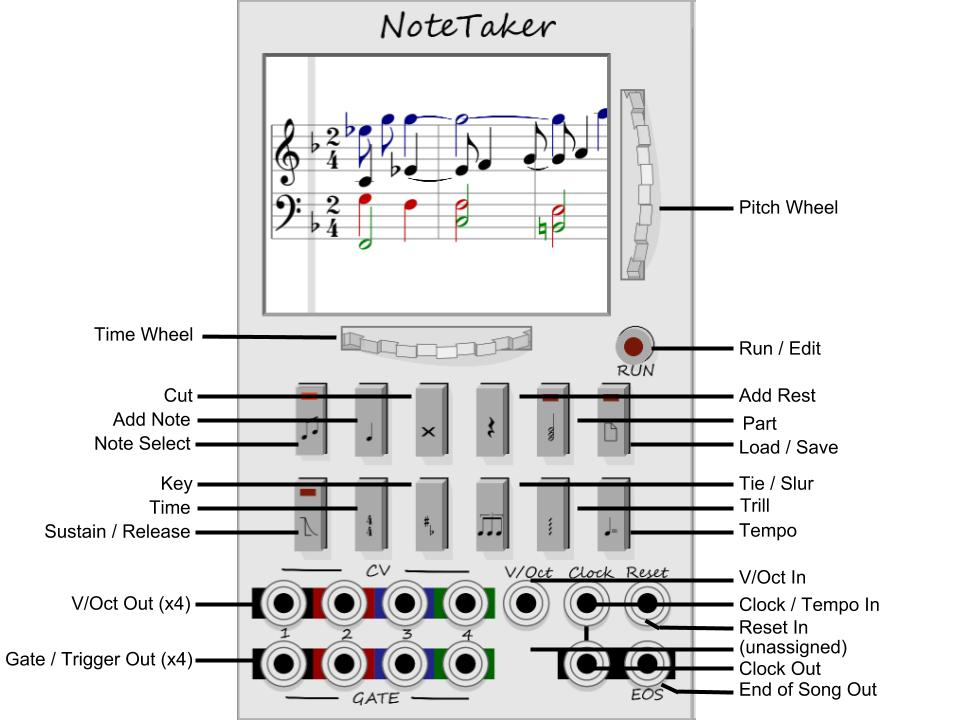
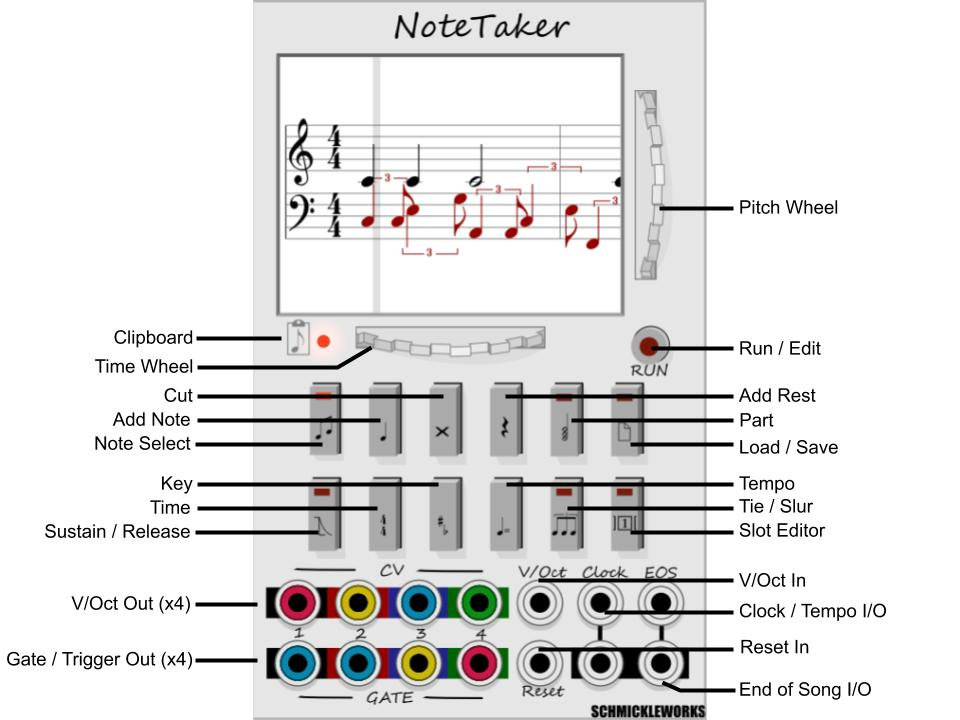
working on documentation

Changed region(s): [[0.0938, 0.0, 0.9375, 1.0], [0.0, 0.8861, 0.0625, 0.9472], [0.875, 0.9472, 0.9062, 0.9778]]

diff --git a/src/Display.cpp b/src/Display.cpp
@@ -1135,7 +1135,7 @@ void NoteTakerDisplay::drawFileControl() {
     this->drawVerticalLabel("save", true, downSelected, box.size.y - 50);
     this->drawVerticalControl();
     // draw horizontal control
-    float fSlot = horizontalWheel->getValue();
+    float fSlot = std::min((float) (ntw->storage.size() - 1), horizontalWheel->getValue());
     int slot = (int) (fSlot + .5);
     control.autoDrift(fSlot, state.callInterval);
     unsigned firstVisible = xControlOffset >= 1 ? (unsigned) xControlOffset - 1 : 0;

diff --git a/README.md b/README.md
@@ -1,6 +1,6 @@
 # SchmickleWorks NoteTaker
 
-NoteTaker is a [VCV Rack 0.6](https://vcvrack.com/) module to create sequences
+NoteTaker is a [VCV Rack 1.0](https://vcvrack.com/) module to create sequences
 using traditional music notation.
 
 NoteTaker is under active development; the file format, panel layout, and feature
@@ -14,31 +14,134 @@ Planned feature set:
 
 * Sequences are loaded as MIDI formats one and zero, and saved as MIDI format zero.
 * State is autosaved between sessions.
-* Sequences use from one to four channels.
+* Sequences use from one to four channels (eight with expansion)
 * Editor supports copy and paste.
 * Gate output can be customized to match desired envelope triggering.
 * Pitch and tempo can be modified at runtime.
 * Score may contain key signature, time signature, and tempo.
 * Note pitch varies from MIDI note 0 to MIDI note 127, over ten octaves.
 * Note duration varies from 128th notes to octuple whole note.
-* CV input modifies pitch, tempo, and reset.
+* Note duration may include triplets, ties, and slurs.
+* CV input modifies pitch, tempo; triggers reset; advances song.
 * CV output includes quarter note clock and end of song.
 
-Additional features under consideration include: slurs, triplets,
-arpeggios, and trills.
+# Editor Buttons
+
+Enable "Parameter tooltips" in the View Menu for a reminder of the buttons' functions.
+
+## Note Select
+
+Note Select has three states: edit, insert, and select. 
+Pressing Note Select toggles the three states.
+
+When the LED is off ![](images/notesButtonOff.png) the wheels edit
+the current selection. The horizontal wheel changes the note duration; the vertical wheel changes
+the pitch.
+
+When the LED is red ![](images/noteButtonInsert.png) the wheels move
+the insertion indicator. The horizontal wheel moves the insertion forwards and backwards in time.
+The vertical wheel inserts a duplicate note above or below the existing note.
+
+When the LED is blue ![](images/noteButtonSelect.png) the wheels move
+the selection indicator. The horizontal wheel extends the selection before or after the insertion
+point. The vertical wheel selects a single note from a chord.
+
+## Add Note
+
+Add Note ![](images/addnotebutton.PNG) adds one or more notes after the current selection. Move
+the insertion indicator to the left to add notes at the beginning of the score. 
+
+If the clipboard light ![](images/clipboardlight.PNG) is on Add Note duplicates the last selection.
+If the clipboard light ![](images/clipboardlightoff.PNG) if off Add Note duplicates the rightmost
+note in the selection. The clipboard light is on only when the Note Select light is red; when Note
+Select is set to insert.
+
+After notes are added, Note Select light is off (edit) so that the Horizontal Wheel changes the
+duration of all added notes; the Vertical Wheel changes the pitch of all added notes.
+
+## Cut
+
+Cut ![](images/cutbutton.PNG) removes the current selection and copies the notes to the clipboard.
+If Note Select is red (insert), Cut removes the note to the left of the insertion point. If the
+Vertical Wheel added a note to a chord, or if it selected a note in a chord, Cut removes that note.
+
+Cut immediately followed by Add Note undoes the Cut.
+
+## Add Rest
+
+Add Rest ![](images/addrestbutton.PNG) adds a rest after the current selection. Move
+the insertion indicator to the left to add a rest at the beginning of the score. 
+
+After the rest is added, Note Select light is off (edit) so that the Horizontal Wheel changes the
+duration of the rest.
+
+## Part
+
+Part ![](images/partbutton.PNG) chooses the musical part or parts to edit. Each part corresponds to
+one of the CV / GATE pairs on NoteTaker or an expansion. MIDI channels or tracks are mapped to parts.
+
+![](images/partdisplay.PNG)
+
+The Horizontal Wheel selects each or all parts. A part may be locked to prevent future editing.
+The Vertical Wheel locks the selected part, or makes the selected part editable. The part notes
+become transparent when locked, and the part icon shows a lock in place of a circle.
+
+When an existing MIDI file is imported, each track or channel with notes is remapped to parts in
+ascending order. (MIDI percussion channels 10 and 11 are currently not mapped to a part.) The
+original MIDI instrument name and GM instrument are shown with the part.
+
+## File
+
+File ![](images/filebutton.PNG) loads and saves notes from one of 12 slots. The Horizontal Wheel
+selects the slot to load from or save to. The Vertical Wheel executes the load or save action.
+
+![](images/filedisplay.PNG)
+
+The notes in all slots are autosaved by VCV Rack if enabled, and are loaded and saved with your patch.
+All 12 editor buttons are assigned one slot at run time, allowing the user to switch freely during
+a performance. The Playback button allows choosing the slot order triggered by the EOS input.
+
+## Sustain / Release
+
+Sustain / Release ![](images/sustainreleasebutton.PNG) maps the note duration to the GATE output.
+The Horizontal Wheel selects the duration of the Sustain or Release cycle. The Vertical Wheel selects
+whether to edit the maximum Sustain, minimum Sustain, minimum Release, or maximum Release.
+
+![](images/sustainreleasedisplay.PNG)
+
+Sustain is the duration of the GATE output held high proportional to the note duration. Minimum
+Sustain is the shortest time GATE output is held high. Maximum Sustain is the longest time GATE output
+is held high.
+
+Release is the duration of the GATE output held low proportional to the note duration. Minimum
+Release is the shortest time GATE output is held low. Maximum Release is the longest time GATE output
+is held low.
+
+If NoteTaker GATE output triggers an ADSR, the Minimum Release setting guarantees the duration of
+GATE output held low to make room for ADSR release phase. 
+Similarly, the Minimum Sustain setting guarantees the duration of GATE output held high to make
+room for the attack/decay/sustain phases.
+
+The sum of Minimum Sustain and Minimum Release dictate the shortest duration note that can be
+created, but does not affect the duration of existing notes.
+
+Each part has its own Sustain / Release setting.
+
+## Add Time Signature
+
+Add Time Signature ![](images/timesignaturebutton.PNG) adds a time signature after the current
+selection. 
+
 
 # Import MIDI
 
 Existing MIDI files may be imported for NoteTaker to display and play.
-Only files generated by 
-[Google's Bach Doodle](https://www.google.com/doodles/celebrating-johann-sebastian-bach)
-have been tested.
 
-* Copy the MIDI file to midi/#.mid, where '#' is a small number.
-* Press 'File' (far right top row).
-* Scroll the horizontal wheel to the added file.
-* Move the vertical wheel to 'load'.
-* Press 'RUN'.
+* Create a folder named SchmickleWorks in the Rack folder.
+* Copy the MIDI file to import to SchmickleWorks.
+* Right-click on NoteTaker.
+* Select "Load MIDI".
+* Select the MIDI file to load.
 
 # Insert Notes with a MIDI device
 
@@ -51,8 +154,6 @@ One part at a time may be entered with a MIDI-capable keyboard.
 
 The horizontal wheel may be used to change the note duration and the vertical
 wheel may be used to change the pitch after the note is entered.
-
-A bug may prevent the first note from appearing.
 
 Press middle C on the MIDI device before pressing 'RUN' to avoid adding an
 offset to the playback.
